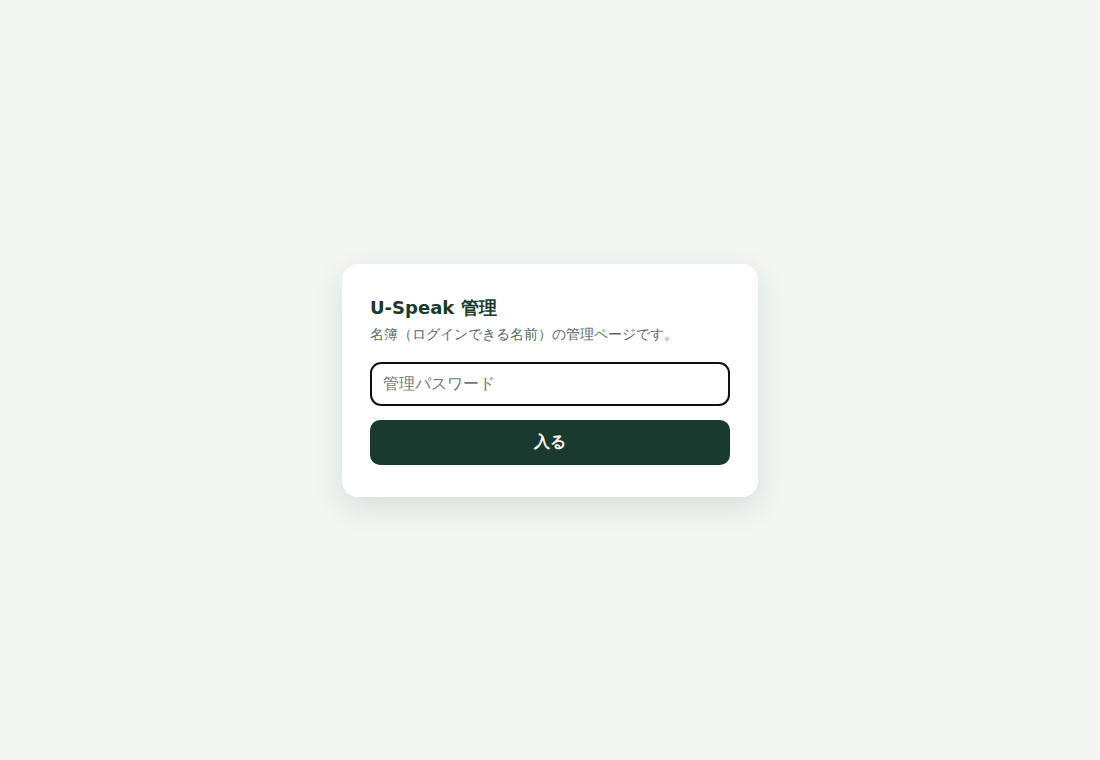
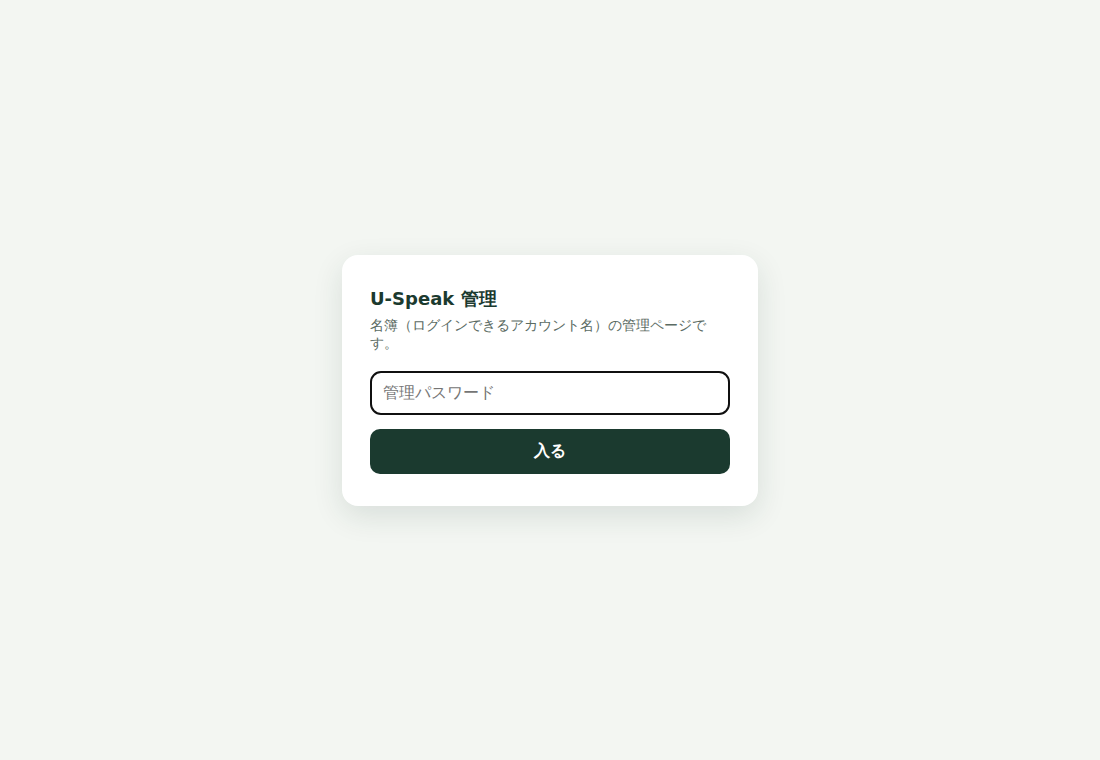
管理ページ: the register is account names only
The page, the CSV in and out, and the paste box take one thing, the account name a
child types in the lobby; a listed name may enter any class. A class column in an
imported file is ignored. Tests and docs follow.

Claude-Session: https://claude.ai/code/session_012KB9rzS4jFaqH8bW6v7YFy

Changed region(s): [[0.3091, 0.3632, 0.68, 0.6658]]

diff --git a/server/src/admin/roster-admin.html b/server/src/admin/roster-admin.html
@@ -63,7 +63,7 @@
 </head>
 <body>
 <header>
-  <h1>U-Speak 管理 — 名簿（ログインできる名前）</h1>
+  <h1>U-Speak 管理 — 名簿（ログインできるアカウント名）</h1>
   <form method="post" action="/admin/logout"><button type="submit">ログアウト</button></form>
 </header>
 <main>
@@ -72,7 +72,7 @@
       <label class="switch"><input type="checkbox" id="enforce"><b>名簿で制限する</b></label>
       <span class="pill" id="mode-pill">…</span>
     </div>
-    <p class="muted" id="mode-help">ON にすると、下の名簿にある名前の子しかログインできません。OFF の間は、クラスコードを知っていれば誰でも入れます。<br>
+    <p class="muted" id="mode-help">ON にすると、下の名簿にあるアカウント名の子しかログインできません（クラスは問いません）。OFF の間は、クラスコードを知っていれば誰でも入れます。<br>
       <code>TEACHER_KEY</code> を持つ先生は名簿に関係なく入れます。制限は <strong>サーバー側</strong> で判定し、名簿がブラウザーに渡ることはありません。</p>
     <div id="env-notice" class="notice" hidden>この切り替えはいま環境変数 <code>ACCESS_MODE</code> で固定されています。変えるには <code>fly secrets unset ACCESS_MODE</code> を実行してください（そのあとはこのスイッチが効きます）。</div>
     <div id="teacher-notice" class="notice warn" hidden><code>TEACHER_KEY</code> が設定されていません。制限を ON にすると先生も入れなくなります。</div>
@@ -82,7 +82,7 @@
     <div id="sheet-notice" class="notice" hidden>名簿は Google スプレッドシート（<code>ROSTER_SHEET_ID</code>）から読んでいます。名前の追加・削除はそのシートで行ってください。ここでは見るだけです。</div>
     <div class="tools">
       <button type="button" id="add">＋ 行をふやす</button>
-      <button type="button" id="paste">📋 貼りつけ（シートからコピー）</button>
+      <button type="button" id="paste">📋 貼りつけ（1行に1つ）</button>
       <label class="btn">📂 CSV を読みこむ<input type="file" id="file" accept=".csv,.tsv,.txt,text/csv,text/plain"></label>
       <select id="import-mode" title="読みこみ方">
         <option value="replace">読みこみ：置きかえる</option>
@@ -90,11 +90,11 @@
       </select>
       <a id="download" class="btn" href="/admin/api/roster.csv" style="font-size:14px;padding:9px 14px;border-radius:10px;border:1px solid var(--line);background:#fff;color:var(--ink);text-decoration:none;font-weight:600">⬇ CSV で保存</a>
       <span class="spacer"></span>
-      <input type="search" id="filter" placeholder="クラスや名前でしぼる">
+      <input type="search" id="filter" placeholder="名前でしぼる">
       <button type="button" id="save" class="primary" disabled>保存する</button>
     </div>
     <table>
-      <thead><tr><th>#</th><th>クラス（空欄＝どのクラスでも）</th><th>なまえ（ログインで入力する名前）</th><th>メモ</th><th></th></tr></thead>
+      <thead><tr><th>#</th><th>アカウント名（ロビーで入力する名前）</th><th></th></tr></thead>
       <tbody id="rows"></tbody>
     </table>
     <div class="foot">
@@ -102,14 +102,14 @@
       <span id="dirty" class="dirty" hidden>● 保存していない変更があります</span>
       <span id="saved-at"></span>
       <span class="spacer"></span>
-      <span>名前は 大文字小文字・空白・全角半角を区別しません。</span>
+      <span>大文字小文字・空白・全角半角は区別しません。</span>
     </div>
   </section>
 
   <section class="card">
     <p class="muted" style="margin:0">
-      <strong>CSV の形</strong>：1行目が見出し <code>class,name,note</code>（<code>クラス,名前,メモ</code> でも可）、2行目から名前。Google スプレッドシートや Excel の「CSV でダウンロード」がそのまま読めます。<br>
-      <strong>貼りつけ</strong>：スプレッドシートのセルを選んでコピーし、「貼りつけ」に貼ると表に入ります。<br>
+      <strong>CSV の形</strong>：1行に1つのアカウント名。1行目が <code>name</code> や <code>アカウント名</code> なら見出しとして飛ばします。<code>class,name</code> の形でも <code>name</code> 列だけ読みます。Google スプレッドシートや Excel の「CSV でダウンロード」がそのまま読めます。<br>
+      <strong>貼りつけ</strong>：スプレッドシートの名前の列を選んでコピーし、「貼りつけ」に貼ると表に入ります。<br>
       <strong>保存</strong>を押すまでサーバーには書かれません。保存するとその場で効きます（授業中でも）。
     </p>
   </section>
@@ -117,10 +117,10 @@
 
 <dialog id="paste-dialog">
   <h2>貼りつけ</h2>
-  <div class="muted">スプレッドシートの <code>クラス | なまえ | メモ</code> の列をコピーして、ここに貼ってください。名前だけの列でも大丈夫です。</div>
-  <textarea id="paste-text" placeholder="6-1	Aki
-6-1	Ben
-6-2	Chika"></textarea>
+  <div class="muted">1行に1つ、アカウント名を貼ってください（スプレッドシートの列をコピーしたものでも大丈夫です）。</div>
+  <textarea id="paste-text" placeholder="Aki
+Ben
+Chika"></textarea>
   <div class="row">
     <select id="paste-mode"><option value="append">追加する</option><option value="replace">置きかえる</option></select>
     <button type="button" id="paste-cancel">やめる</button>
@@ -146,9 +146,7 @@
     const tb = $('#rows');
     tb.innerHTML = rows.map((r, i) => `<tr data-i="${i}">
       <td class="n">${i + 1}</td>
-      <td><input data-k="class" value="${esc(r.class === '*' ? '' : r.class)}" placeholder="（どのクラスでも）" ${state.editable ? '' : 'readonly'}></td>
-      <td><input data-k="name" value="${esc(r.name)}" placeholder="なまえ" ${state.editable ? '' : 'readonly'}></td>
-      <td><input data-k="note" value="${esc(r.note || '')}" placeholder="" ${state.editable ? '' : 'readonly'}></td>
+      <td><input data-k="name" value="${esc(r.name)}" placeholder="アカウント名" ${state.editable ? '' : 'readonly'}></td>
       <td class="x">${state.editable ? '<button type="button" title="この行を消す">×</button>' : ''}</td>
     </tr>`).join('');
     $('#count').textContent = `${rows.filter((r) => r.name && r.name.trim()).length} 人`;
@@ -158,7 +156,7 @@
     const q = $('#filter').value.trim().toLowerCase();
     for (const tr of $('#rows').children) {
       const r = rows[Number(tr.dataset.i)];
-      tr.classList.toggle('hide', !!q && !`${r.class} ${r.name} ${r.note || ''}`.toLowerCase().includes(q));
+      tr.classList.toggle('hide', !!q && !String(r.name).toLowerCase().includes(q));
     }
   }
   function renderMode() {
@@ -177,7 +175,7 @@
     const r = await fetch('/admin/api/roster', { headers: H });
     if (r.status === 401) { location.href = '/admin'; return; }
     state = await r.json();
-    rows = state.rows.map((x) => ({ ...x }));
+    rows = state.rows.map((x) => ({ name: x.name }));
     renderMode(); render(); setDirty(false);
   }
 
@@ -198,10 +196,10 @@
     const tr = e.target.closest('tr'); if (!tr) return;
     e.preventDefault();
     const i = Number(tr.dataset.i);
-    if (i === rows.length - 1) { rows.push({ class: rows[i].class, name: '', note: '' }); render(); setDirty(true); }
+    if (i === rows.length - 1) { rows.push({ name: '' }); render(); setDirty(true); }
     $('#rows').children[i + 1]?.querySelector('[data-k=name]')?.focus();
   });
-  $('#add').addEventListener('click', () => { rows.push({ class: rows.length ? rows[rows.length - 1].class : '', name: '', note: '' }); render(); setDirty(true); $('#rows').lastElementChild?.querySelector('[data-k=name]')?.focus(); });
+  $('#add').addEventListener('click', () => { rows.push({ name: '' }); render(); setDirty(true); $('#rows').lastElementChild?.querySelector('[data-k=name]')?.focus(); });
   $('#filter').addEventListener('input', applyFilter);
 
   async function parseText(textOrBlob) {
@@ -211,9 +209,10 @@
     return j.rows;
   }
   function take(newRows, mode) {
-    if (mode === 'replace') rows = newRows; else rows = rows.concat(newRows);
+    const names = newRows.map((r) => ({ name: r.name }));
+    if (mode === 'replace') rows = names; else rows = rows.concat(names);
     render(); setDirty(true);
-    toast(`${newRows.length} 行を表に入れました（まだ保存していません）`);
+    toast(`${names.length} 人を表に入れました（まだ保存していません）`);
   }
   $('#file').addEventListener('change', async (e) => {
     const f = e.target.files[0]; if (!f) return;

diff --git a/server/src/admin/roster-admin.js b/server/src/admin/roster-admin.js
@@ -1,8 +1,9 @@
 // 管理ページ (/admin) — the owner's register editor.
 //
-// One password (ADMIN_KEY), one page: the list of who may enter, as a table the owner
-// types into, pastes into from a spreadsheet, or loads from a CSV; a switch that turns
-// the gate on and off; a CSV download. Everything is judged and stored on the server
+// One password (ADMIN_KEY), one page: the list of account names that may enter — only
+// names, no classes — as a table the owner types into, pastes into, or loads from a CSV;
+// a switch that turns the gate on and off; a CSV download. A name on the list may enter
+// any class (stored as class '*'). Everything is judged and stored on the server
 // (game/access.js → the store); the page is only a view of it.
 //
 // Without ADMIN_KEY this module is never mounted, like the parent reports without
@@ -104,7 +105,7 @@ export function mountAdmin(app, { access, adminKey, teacherKeySet = false, isPro
 
   const state = async () => ({
     ok: true,
-    rows: await access.rows(),
+    rows: (await access.rows()).map((r) => ({ name: r.name })),
     enforce: access.enforce,
     mode: access.mode(),
     envModeSet: access.envModeSet,
@@ -130,10 +131,10 @@ export function mountAdmin(app, { access, adminKey, teacherKeySet = false, isPro
     if (!access.editable) { res.status(409).json({ ok: false, error: 'not-editable' }); return; }
     const rows = req.body?.rows;
     if (!Array.isArray(rows) || rows.length > MAX_ROWS) { res.status(400).json({ ok: false, error: 'rows' }); return; }
-    const clipped = rows.map((r) => ({ class: clip(r?.class), name: clip(r?.name), note: clip(r?.note) }));
+    const clipped = rows.map((r) => ({ class: '*', name: clip(typeof r === 'string' ? r : r?.name), note: '' }));
     try {
       const saved = await access.replace(clipped);
-      res.json({ ok: true, count: saved.length, rows: saved });
+      res.json({ ok: true, count: saved.length, rows: saved.map((r) => ({ name: r.name })) });
     } catch (err) { log.warn('[admin] roster save failed:', err.message); res.status(500).json({ ok: false, error: err.message }); }
   });
 
@@ -150,7 +151,7 @@ export function mountAdmin(app, { access, adminKey, teacherKeySet = false, isPro
   api.post('/parse', express.raw({ type: () => true, limit: '2mb' }), (req, res) => {
     try {
       const text = Buffer.isBuffer(req.body) ? decodeUpload(req.body) : String(req.body ?? '');
-      const rows = rosterFromText(text).slice(0, MAX_ROWS);
+      const rows = rosterFromText(text).slice(0, MAX_ROWS).map((r) => ({ name: r.name }));
       res.json({ ok: true, rows });
     } catch (err) { res.status(400).json({ ok: false, error: err.message }); }
   });
@@ -177,7 +178,7 @@ function loginHtml({ bad = false, locked = false } = {}) {
 </style></head><body>
 <form method="post" action="/admin/login" autocomplete="off">
   <h1>U-Speak 管理</h1>
-  <p>名簿（ログインできる名前）の管理ページです。</p>
+  <p>名簿（ログインできるアカウント名）の管理ページです。</p>
   <input type="password" name="password" placeholder="管理パスワード" autofocus required>
   ${msg ? `<div class="bad">${esc(msg)}</div>` : ''}
   <button type="submit">入る</button>

diff --git a/server/src/store/roster-text.js b/server/src/store/roster-text.js
@@ -65,9 +65,10 @@ const csvCell = (v) => {
   return /[",\r\n]/.test(s) ? `"${s.replace(/"/g, '""')}"` : s;
 };
 
-// Rows -> CSV with a header, UTF-8 with a BOM so Excel opens the Japanese correctly.
+// Rows -> a one-column CSV of names with a `name` header, UTF-8 with a BOM so Excel
+// opens the Japanese correctly. It reads back through rosterFromText as every-class rows.
 export function rosterToCsv(rows) {
-  const lines = [['class', 'name', 'note'].join(',')];
-  for (const r of rows) lines.push([r.class === '*' ? '' : r.class, r.name, r.note ?? ''].map(csvCell).join(','));
-  return `${lines.join('\r\n')}\r\n`;
+  const lines = ['name'];
+  for (const r of rows) if (r && r.name) lines.push(csvCell(r.name));
+  return `\uFEFF${lines.join('\r\n')}\r\n`;
 }
